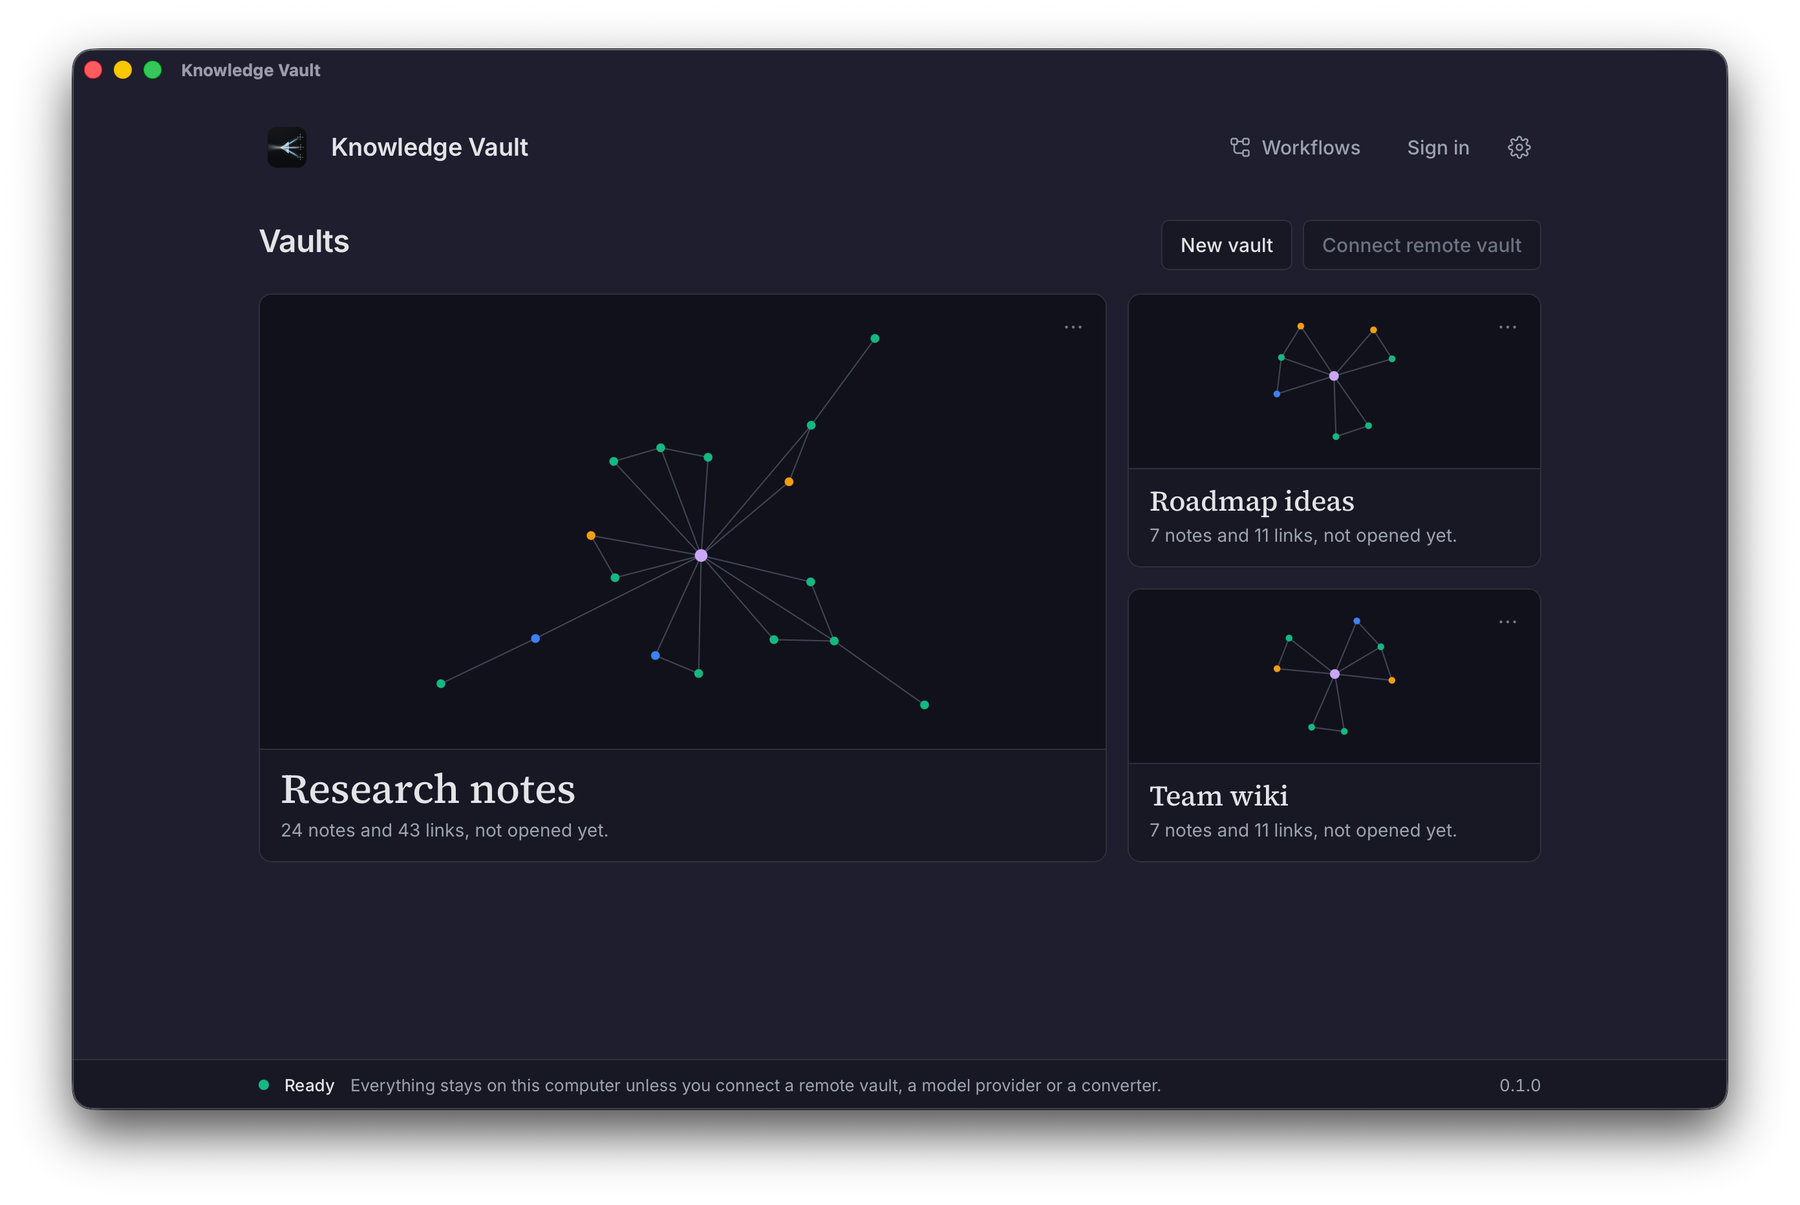
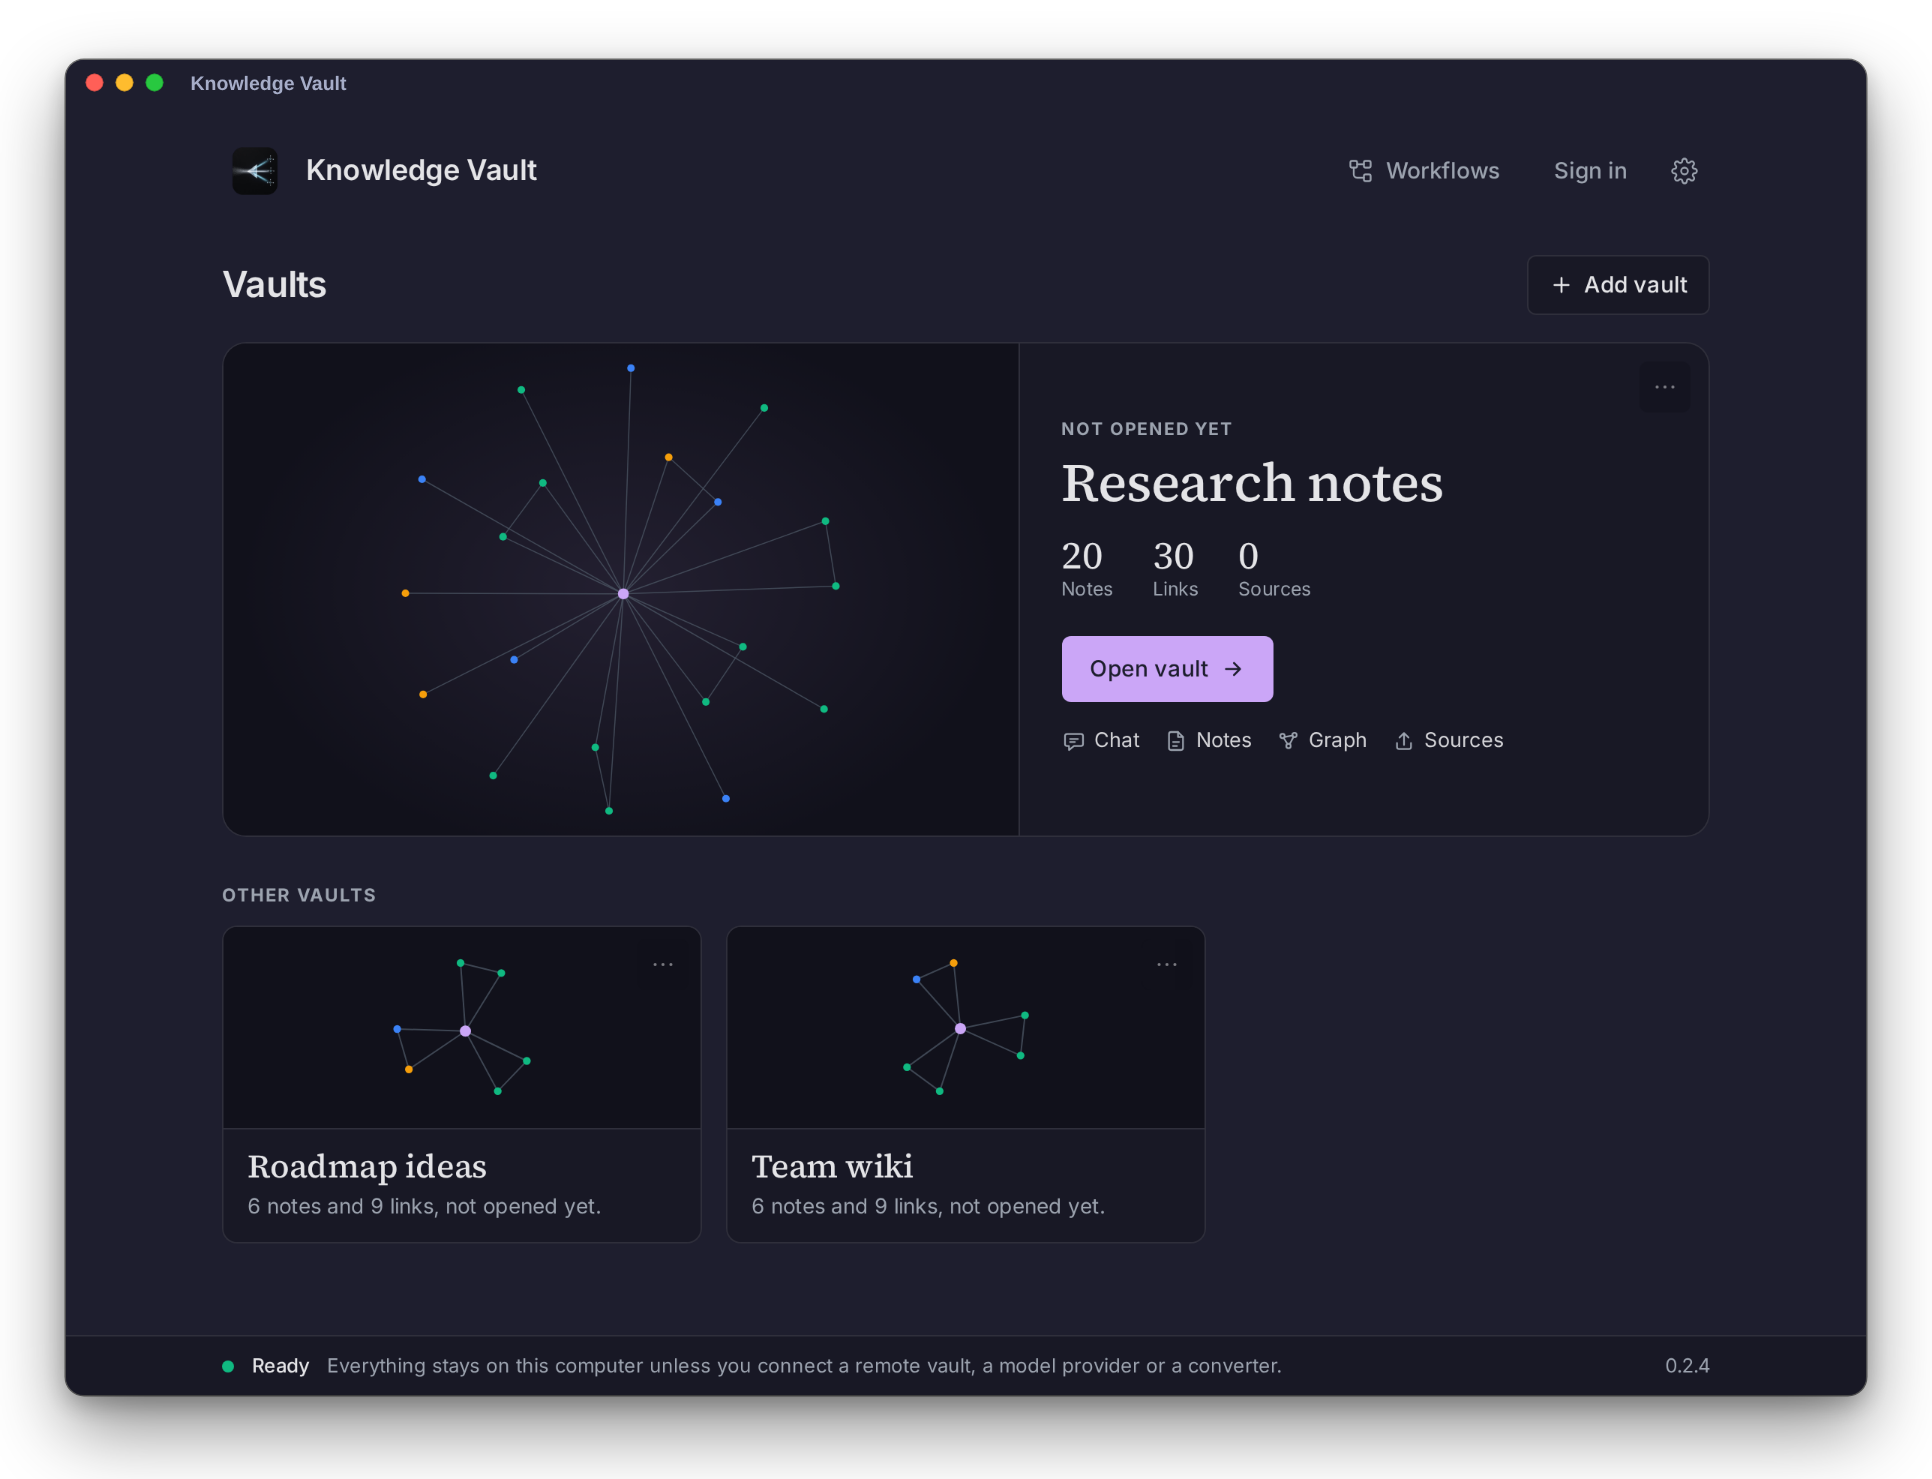
docs(readme): the screenshot shows today's landing

diff --git a/README.md b/README.md
@@ -16,7 +16,7 @@
 </p>
 
 <p align="center">
-  <img src="assets/screenshot-landing.png" alt="Knowledge Vault on macOS: the landing view with three vaults shown as tiles, each with a small map of its notes and links" width="900" />
+  <img src="assets/screenshot-landing.png" alt="Knowledge Vault on macOS: the landing view, with the vault opened last leading the page — its map of notes and links, what it holds, and shortcuts to Chat, Notes, Graph and Sources — and the other vaults below" width="900" />
 </p>
 
 ## What it is
